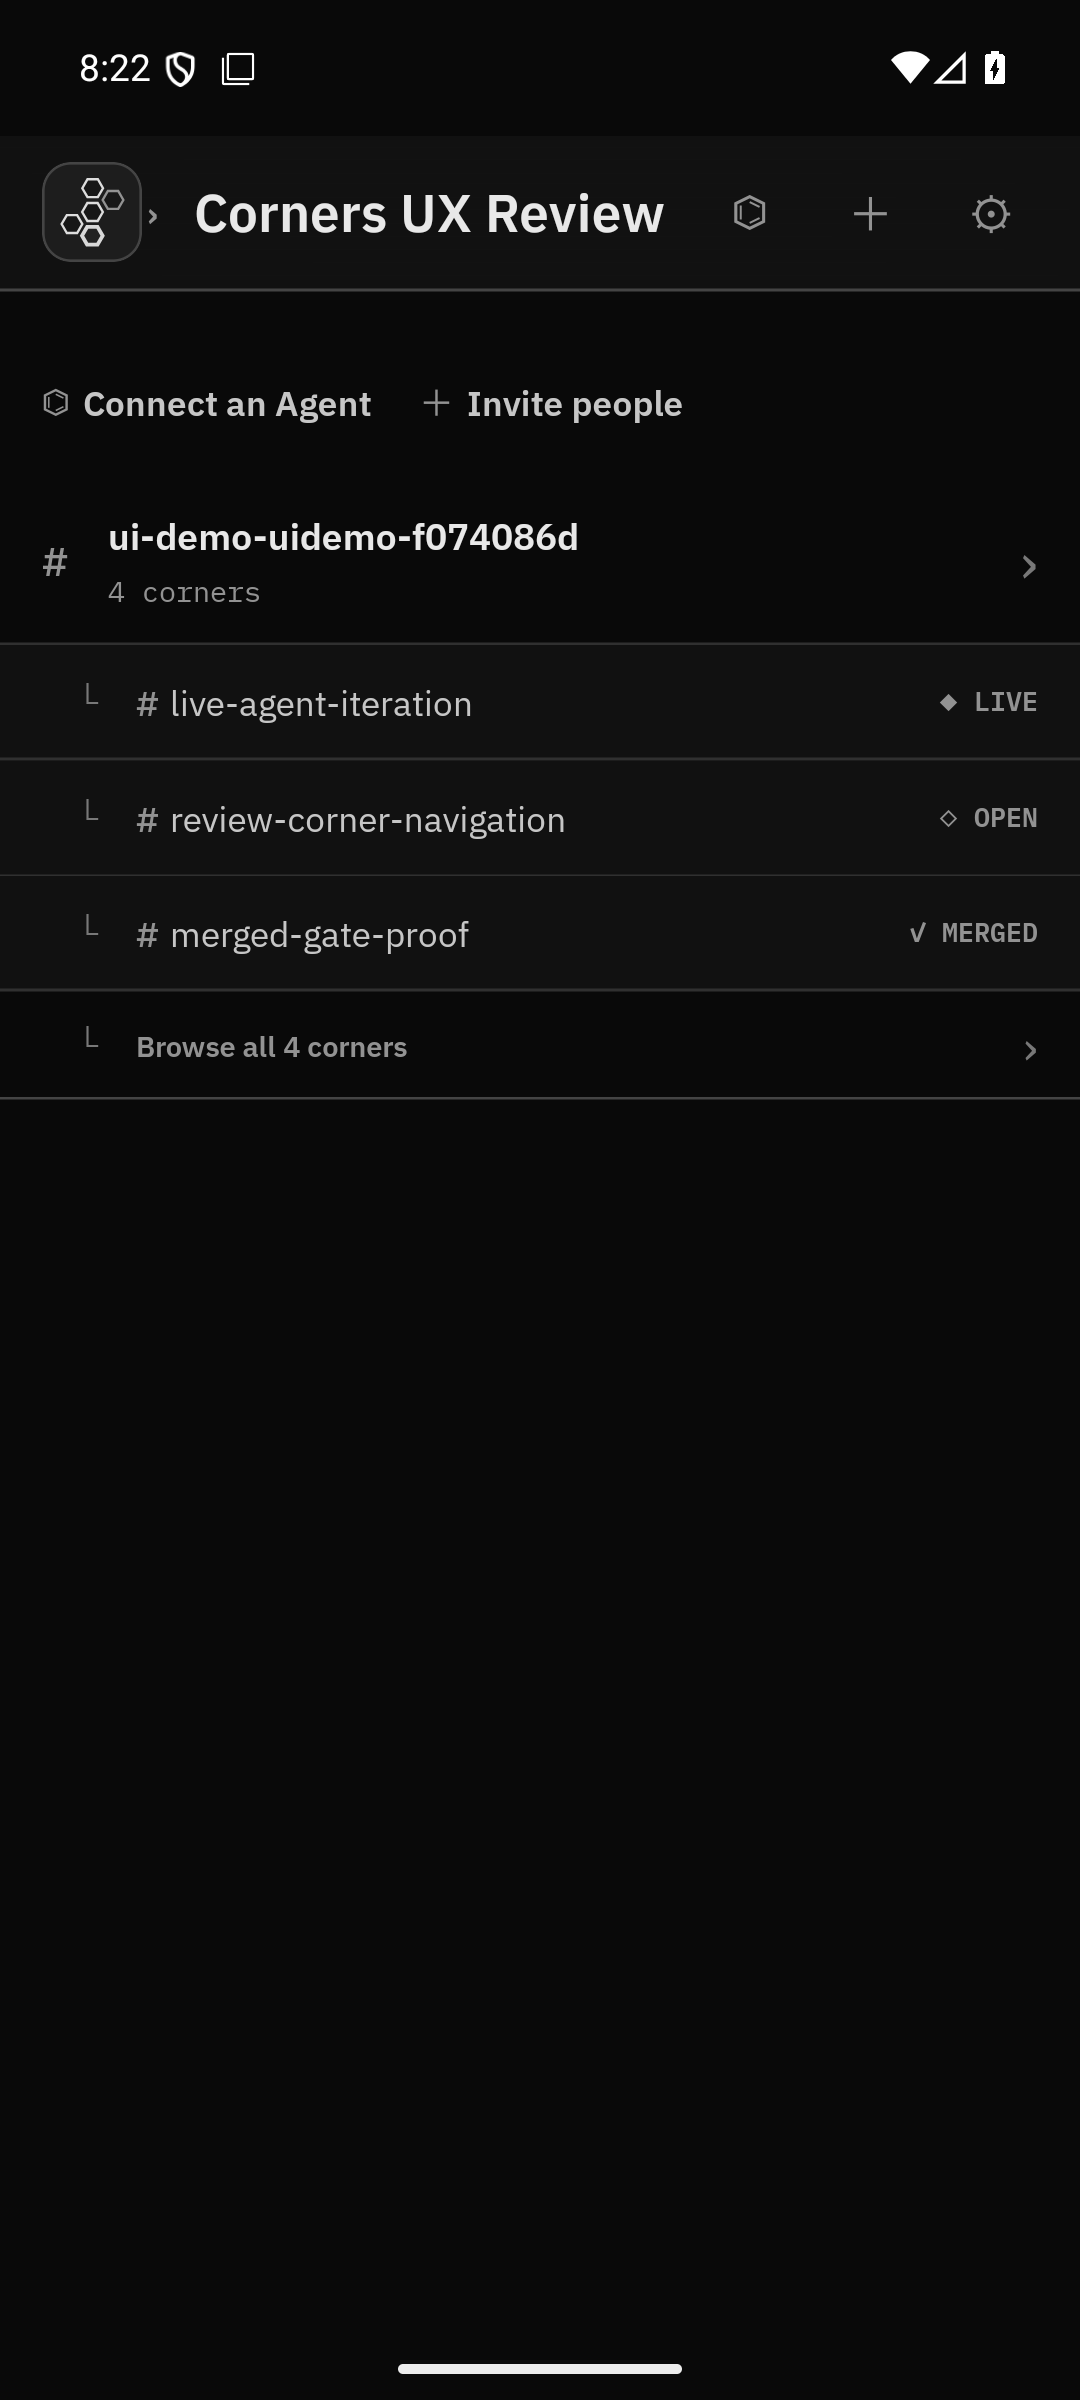
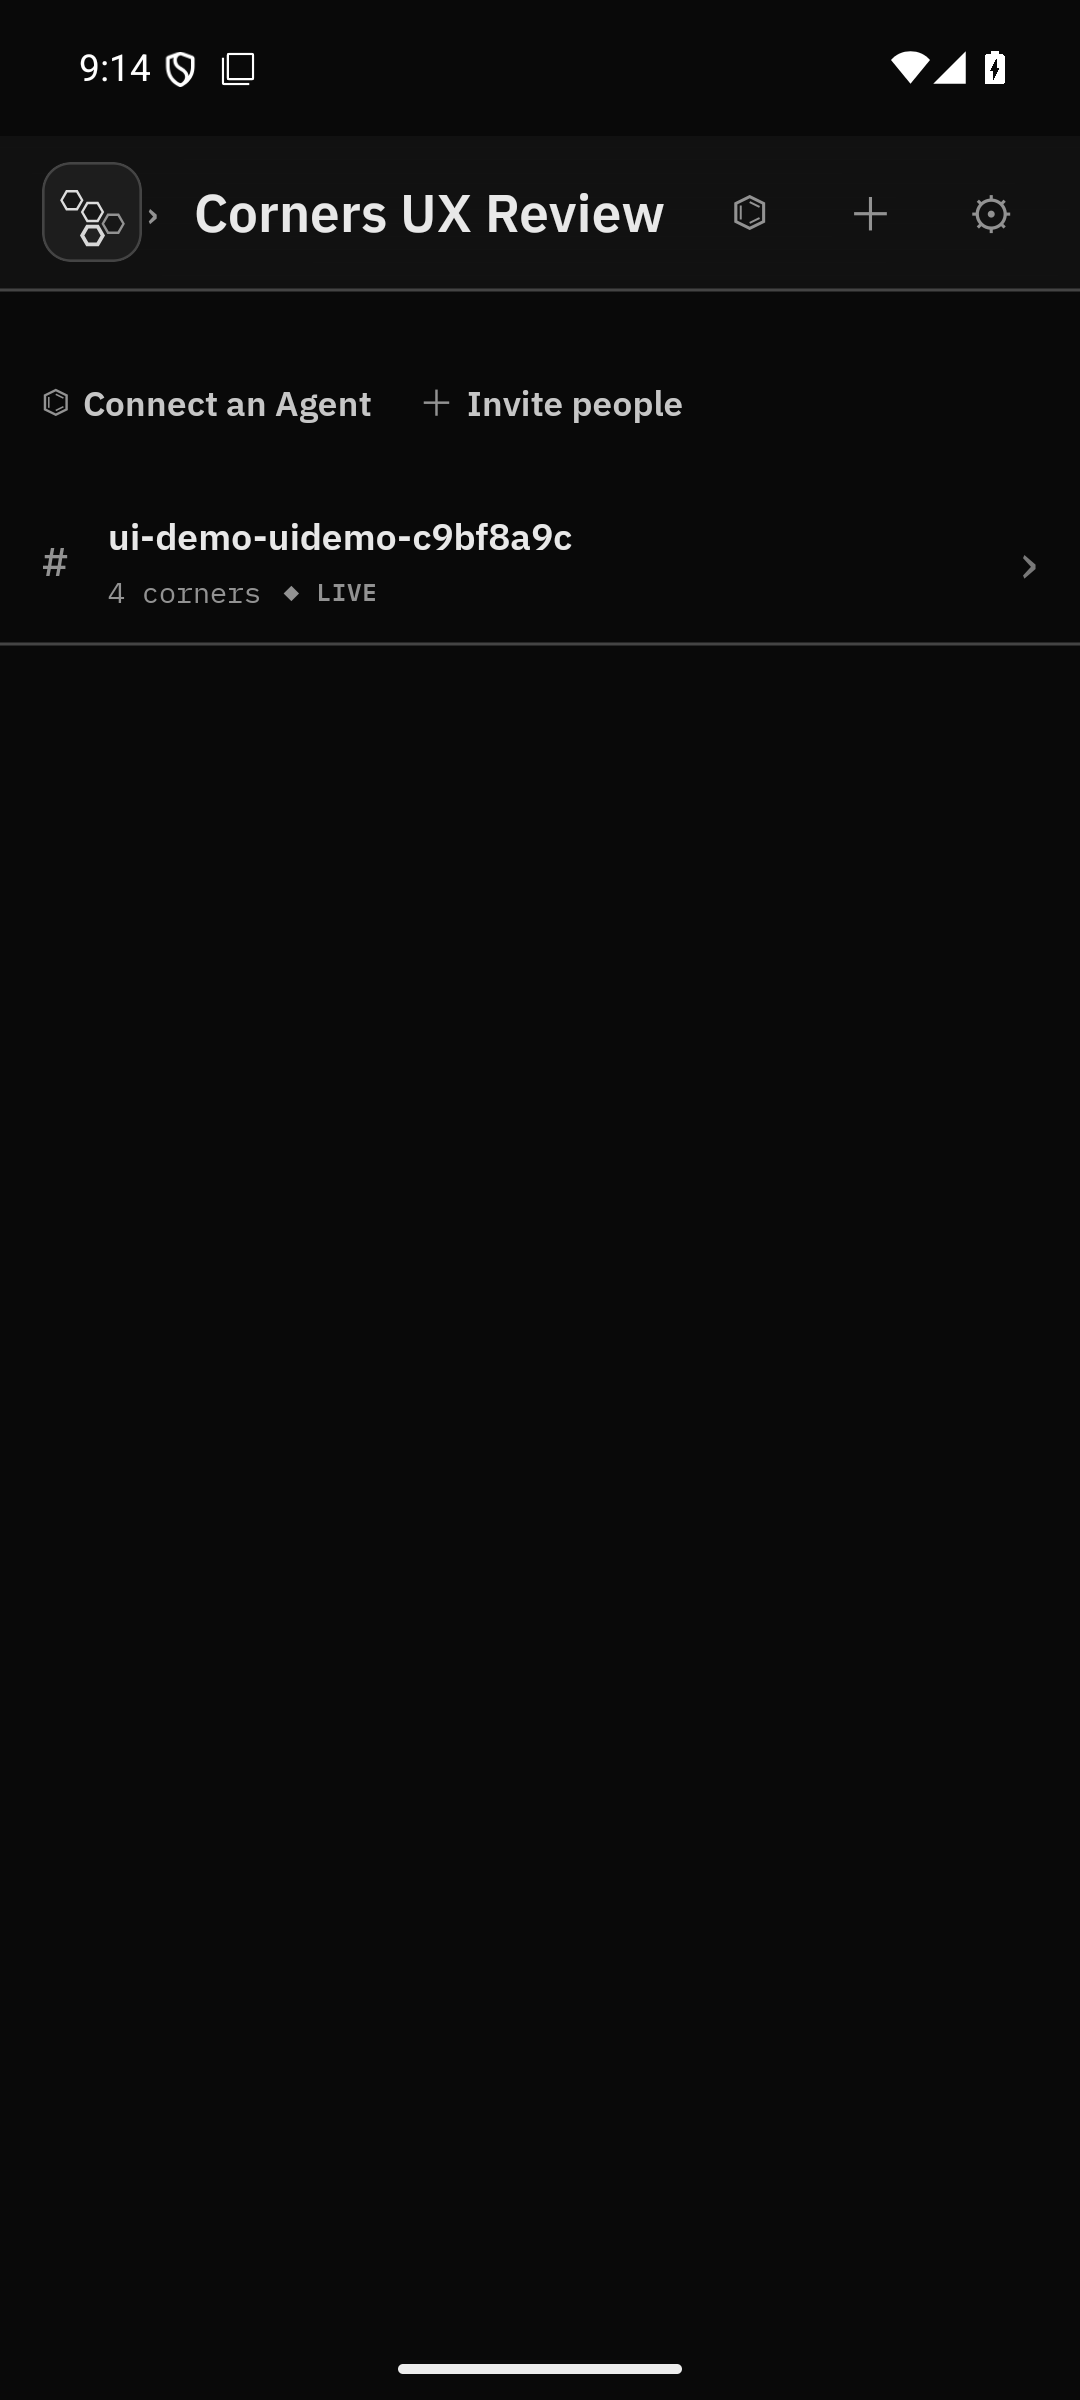
fix: make corner navigation rooms-only

diff --git a/apps/mobile/sources/app/(app)/buzz/channels.tsx b/apps/mobile/sources/app/(app)/buzz/channels.tsx
@@ -25,8 +25,6 @@ import { saveLastViewedChannel } from '@/buzz/community-storage';
 import { createCommunityInviteUrl } from '@/buzz/community-invite';
 import { prepareWorkspaceContext } from '@/buzz/workspace-bootstrap';
 import {
-  cornerNavigationPreview,
-  cornerStatusPresentation,
   sortCorners,
   type CornerSummary,
 } from '@/buzz/corners';
@@ -241,23 +239,15 @@ export default function BuzzChannels() {
     }, [handleRefresh, identity, transport]),
   );
 
-  const handleChannelPress = useCallback(
+  const handleRoomPress = useCallback(
     async (channel: ChannelDisplayItem) => {
       if (identity) {
         await saveLastViewedChannel(identity.publicKey, activeCommunityId, channel.id);
       }
-      router.push(`/buzz/chat/${encodeURIComponent(channel.id)}`);
+      router.push(`/buzz/corners/${encodeURIComponent(channel.id)}` as Href);
     },
     [activeCommunityId, identity],
   );
-
-  const handleBrowseCorners = useCallback((room: ChannelDisplayItem) => {
-    router.push(`/buzz/corners/${encodeURIComponent(room.id)}` as Href);
-  }, []);
-
-  const handleCornerPress = useCallback((cornerId: string) => {
-    router.push(`/buzz/chat/${encodeURIComponent(cornerId)}`);
-  }, []);
 
   const handleCreateChannel = useCallback(async () => {
     const name = channelName.trim();
@@ -560,66 +550,36 @@ export default function BuzzChannels() {
           }
           renderItem={({ item }) => {
             const corners = item.corners ?? [];
-            const preview = cornerNavigationPreview(corners);
+            const hasLiveCorner = corners.some((corner) => corner.status === 'live');
+            const title = item.title ?? `${ROOM_LABEL.toLowerCase()} ${item.id.slice(0, 8)}`;
             return (
-              <View style={styles.roomGroup}>
-                <BrittlePress
-                  contentStyle={styles.channelItem}
-                  onPress={() => void handleChannelPress(item)}
-                >
-                  <Text style={styles.channelIcon}>{item.archived ? '□' : '#'}</Text>
-                  <View style={styles.channelInfo}>
-                    <View style={styles.channelTitleRow}>
-                      <Text
-                        numberOfLines={1}
-                        style={[styles.channelTitle, item.archived && styles.archivedTitle]}
-                      >
-                        {item.title ?? `${ROOM_LABEL.toLowerCase()} ${item.id.slice(0, 8)}`}
-                      </Text>
-                      {item.archived && <Text style={styles.metaTag}>archived</Text>}
-                    </View>
-                    <Text style={styles.channelMeta}>
-                      {corners.length === 0
-                        ? `No ${CHANGES_LABEL}`
-                        : `${corners.length} ${corners.length === 1 ? CORNER_LABEL : CHANGES_LABEL}`}
-                    </Text>
-                  </View>
-                  <Text style={styles.chevron}>›</Text>
-                </BrittlePress>
-
-                {preview.map((corner) => {
-                  const status = cornerStatusPresentation(corner.status);
-                  return (
-                    <TouchableOpacity
-                      key={corner.id}
-                      accessibilityLabel={`Open corner ${corner.name}, ${status.label.toLowerCase()}`}
-                      style={styles.cornerItem}
-                      onPress={() => handleCornerPress(corner.id)}
+              <BrittlePress
+                accessibilityLabel={`Open ${title} corner list, ${corners.length} ${
+                  corners.length === 1 ? CORNER_LABEL : CHANGES_LABEL
+                }${hasLiveCorner ? ', live corner present' : ''}`}
+                contentStyle={styles.channelItem}
+                onPress={() => void handleRoomPress(item)}
+              >
+                <Text style={styles.channelIcon}>{item.archived ? '□' : '#'}</Text>
+                <View style={styles.channelInfo}>
+                  <View style={styles.channelTitleRow}>
+                    <Text
+                      numberOfLines={1}
+                      style={[styles.channelTitle, item.archived && styles.archivedTitle]}
                     >
-                      <Text style={styles.cornerTree}>└</Text>
-                      <Text style={styles.cornerHash}>#</Text>
-                      <Text style={styles.cornerName} numberOfLines={1}>
-                        {corner.name}
-                      </Text>
-                      <Text style={styles.cornerStatus}>{status.glyph} {status.label}</Text>
-                    </TouchableOpacity>
-                  );
-                })}
-
-                {corners.length > 0 && (
-                  <TouchableOpacity
-                    accessibilityLabel={`Browse all ${corners.length} ${CHANGES_LABEL}`}
-                    style={styles.browseCornersRow}
-                    onPress={() => handleBrowseCorners(item)}
-                  >
-                    <Text style={styles.cornerTree}>└</Text>
-                    <Text style={styles.browseCornersText}>
-                      Browse all {corners.length} {corners.length === 1 ? CORNER_LABEL : CHANGES_LABEL}
+                      {title}
                     </Text>
-                    <Text style={styles.browseCornersChevron}>›</Text>
-                  </TouchableOpacity>
-                )}
-              </View>
+                    {item.archived && <Text style={styles.metaTag}>archived</Text>}
+                  </View>
+                  <View style={styles.roomMetaRow}>
+                    <Text style={styles.channelMeta}>
+                      {corners.length} {corners.length === 1 ? CORNER_LABEL : CHANGES_LABEL}
+                    </Text>
+                    {hasLiveCorner && <Text style={styles.liveMarker}>◆ LIVE</Text>}
+                  </View>
+                </View>
+                <Text style={styles.chevron}>›</Text>
+              </BrittlePress>
             );
           }}
           onRefresh={() => void handleRefresh()}
@@ -803,10 +763,6 @@ const styles = StyleSheet.create({
     fontSize: 11,
   },
   listContent: { paddingVertical: 4 },
-  roomGroup: {
-    borderBottomWidth: 1,
-    borderBottomColor: groknight.border,
-  },
   channelItem: {
     minHeight: 64,
     paddingHorizontal: 16,
@@ -814,7 +770,7 @@ const styles = StyleSheet.create({
     flexDirection: 'row',
     alignItems: 'center',
     borderBottomWidth: 1,
-    borderBottomColor: groknight.borderQuiet,
+    borderBottomColor: groknight.border,
   },
   channelIcon: {
     ...Typography.default('semiBold'),
@@ -843,66 +799,22 @@ const styles = StyleSheet.create({
   },
   channelMeta: {
     ...Typography.mono(),
-    marginTop: 4,
     color: groknight.textMuted,
     fontSize: 11,
     lineHeight: 15,
   },
-  cornerItem: {
-    minWidth: 0,
-    minHeight: 44,
-    paddingLeft: 30,
-    paddingRight: 16,
+  roomMetaRow: {
+    marginTop: 4,
     flexDirection: 'row',
     alignItems: 'center',
-    backgroundColor: groknight.bgBase,
-    borderBottomWidth: 1,
-    borderBottomColor: groknight.borderQuiet,
   },
-  cornerTree: {
-    ...Typography.mono(),
-    width: 22,
-    color: groknight.gutter,
-    fontSize: 12,
-  },
-  cornerHash: {
-    ...Typography.default('semiBold'),
-    marginRight: 4,
-    color: groknight.steel,
-    fontSize: 13,
-  },
-  cornerName: {
-    ...Typography.default(),
-    flex: 1,
-    minWidth: 0,
-    color: groknight.textSecondary,
-    fontSize: 13,
-  },
-  cornerStatus: {
+  liveMarker: {
     ...Typography.mono('semiBold'),
     marginLeft: 8,
-    color: groknight.textMuted,
-    fontSize: 10,
-    lineHeight: 14,
-  },
-  browseCornersRow: {
-    minHeight: 40,
-    paddingLeft: 30,
-    paddingRight: 16,
-    flexDirection: 'row',
-    alignItems: 'center',
-    backgroundColor: groknight.bgTerminal,
-  },
-  browseCornersText: {
-    ...Typography.default('semiBold'),
-    flex: 1,
-    color: groknight.textMuted,
-    fontSize: 11,
-  },
-  browseCornersChevron: {
-    ...Typography.default(),
-    color: groknight.gutter,
-    fontSize: 18,
+    color: groknight.signalMid,
+    fontSize: 9,
+    lineHeight: 13,
+    letterSpacing: 0.5,
   },
   chevron: { ...Typography.default(), marginLeft: 8, color: groknight.gutter, fontSize: 22 },
   emptyContainer: { flexGrow: 1 },

diff --git a/apps/mobile/sources/buzz/corners.test.ts b/apps/mobile/sources/buzz/corners.test.ts
@@ -1,7 +1,6 @@
 import { describe, expect, it } from 'vitest';
 import {
   cornerName,
-  cornerNavigationPreview,
   cornerStatusPresentation,
   sortCorners,
   type CornerSummary,
@@ -15,17 +14,12 @@ describe('corner navigation model', () => {
     { id: 'live-old', name: 'older', openerPubkey: 'a', status: 'live', createdAt: 1 },
   ];
 
-  it('keeps active corners first and limits the nested room preview', () => {
+  it('keeps active corners first in the room-scoped corner list', () => {
     expect(sortCorners(corners).map((corner) => corner.id)).toEqual([
       'live-new',
       'live-old',
       'open',
       'archived',
-    ]);
-    expect(cornerNavigationPreview(corners).map((corner) => corner.id)).toEqual([
-      'live-new',
-      'live-old',
-      'open',
     ]);
   });
 

diff --git a/apps/mobile/sources/buzz/corners.ts b/apps/mobile/sources/buzz/corners.ts
@@ -8,8 +8,6 @@ export type CornerSummary = {
   createdAt?: number;
 };
 
-export const CORNER_NAV_PREVIEW_LIMIT = 3;
-
 const STATUS_ORDER: Record<CornerStatus, number> = {
   live: 0,
   open: 1,
@@ -45,8 +43,4 @@ export function sortCorners(corners: CornerSummary[]): CornerSummary[] {
     if (statusDelta !== 0) return statusDelta;
     return (b.createdAt ?? 0) - (a.createdAt ?? 0) || a.name.localeCompare(b.name);
   });
-}
-
-export function cornerNavigationPreview(corners: CornerSummary[]): CornerSummary[] {
-  return sortCorners(corners).slice(0, CORNER_NAV_PREVIEW_LIMIT);
 }

diff --git a/apps/mobile/sources/components/buzz/Typography.test.ts b/apps/mobile/sources/components/buzz/Typography.test.ts
@@ -16,8 +16,6 @@ const sources = [
 const monoStyles = new Set([
   'command',
   'channelMeta',
-  'cornerStatus',
-  'cornerTree',
   'count',
   'errorLabel',
   'expiry',
@@ -28,6 +26,7 @@ const monoStyles = new Set([
   'agent',
   'lifecycleAgent',
   'lifecycleBranch',
+  'liveMarker',
   'mergeSummaryPubkey',
   'modelTitle',
   'loadingText',

diff --git a/AGENTS.md b/AGENTS.md
@@ -64,7 +64,7 @@ When updating this file, preserve this bar for all agents and keep entries conci
 - **Agent profiles**: `buzz/agents.tsx` pairs desktop/headless agent identities and joins them with human-signed, community-scoped display overlays from `packages/buzz-client/src/agent.ts`. Soul overlays carry no authority and never participate in gate enforcement.
 - Typecheck: `tsc --noEmit` has one pre-existing error in `buzz-rig-transport.ts` (unrelated to UI). Metro bundles successfully.
 - **P2 merge UI** (`apps/mobile/sources/app/(app)/buzz/chat/[channelId].tsx`): approve button in subchannels reads merge target from body-control messages (repo,branch,tip tags), signs P0-gate-shape approval via `submitMergeApproval`, shows async states. Merge-summary messages (t=merge-summary) render with green border. Archived subchannels (status=archived) disable text input. Provenance shows short npub next to each message.
-- **Workspace/Room navigation** (`apps/mobile/sources/app/(app)/buzz/channels.tsx`): the person-facing unit for an agent subchannel is a **corner**. Rooms nest a short Slack-style corner preview and link to `buzz/corners/[roomId].tsx` for the complete status list; corner control events stay out of the Room transcript. Wire names remain `subchannel`/`change-review` for compatibility.
+- **Workspace/Room navigation** (`apps/mobile/sources/app/(app)/buzz/channels.tsx`): the person-facing unit for an agent subchannel is a **corner**. The top level is Rooms only, with corner counts and a live-work signal; tapping a Room opens `buzz/corners/[roomId].tsx`, the complete status list. Corner control events stay out of the Room transcript. Wire names remain `subchannel`/`change-review` for compatibility.
 - **Body control message shape**: subchannel-open and intro messages now carry `["repo", ownerHex/repo]`, `["tip", 40-hex]` tags alongside existing `branch`, `subchannel`, `session`, `mode` tags. See `apps/body/src/body.ts` `openSubchannel()`.
 - **`getSubchannelMergeTarget()`**: reads merge target from subchannel body-control messages in `BuzzRigTransport`. Used by the Approve button UI.
 - **Change review wire**: Body computes the exact base→feature-tip manifest and chunked per-file patches before `merge-ready` (`apps/body/src/change-review.ts`). Protocol tags/types live in `packages/buzz-client/src/change-review.ts`; payloads use kind:30078 so they never consume kind:9 transcript backfill. Mobile fetches the manifest eagerly and each signed patch lazily through `BuzzRigTransport`. `scripts/ui-demo-provision.ts` creates a relay-backed review fixture without running an agent.
